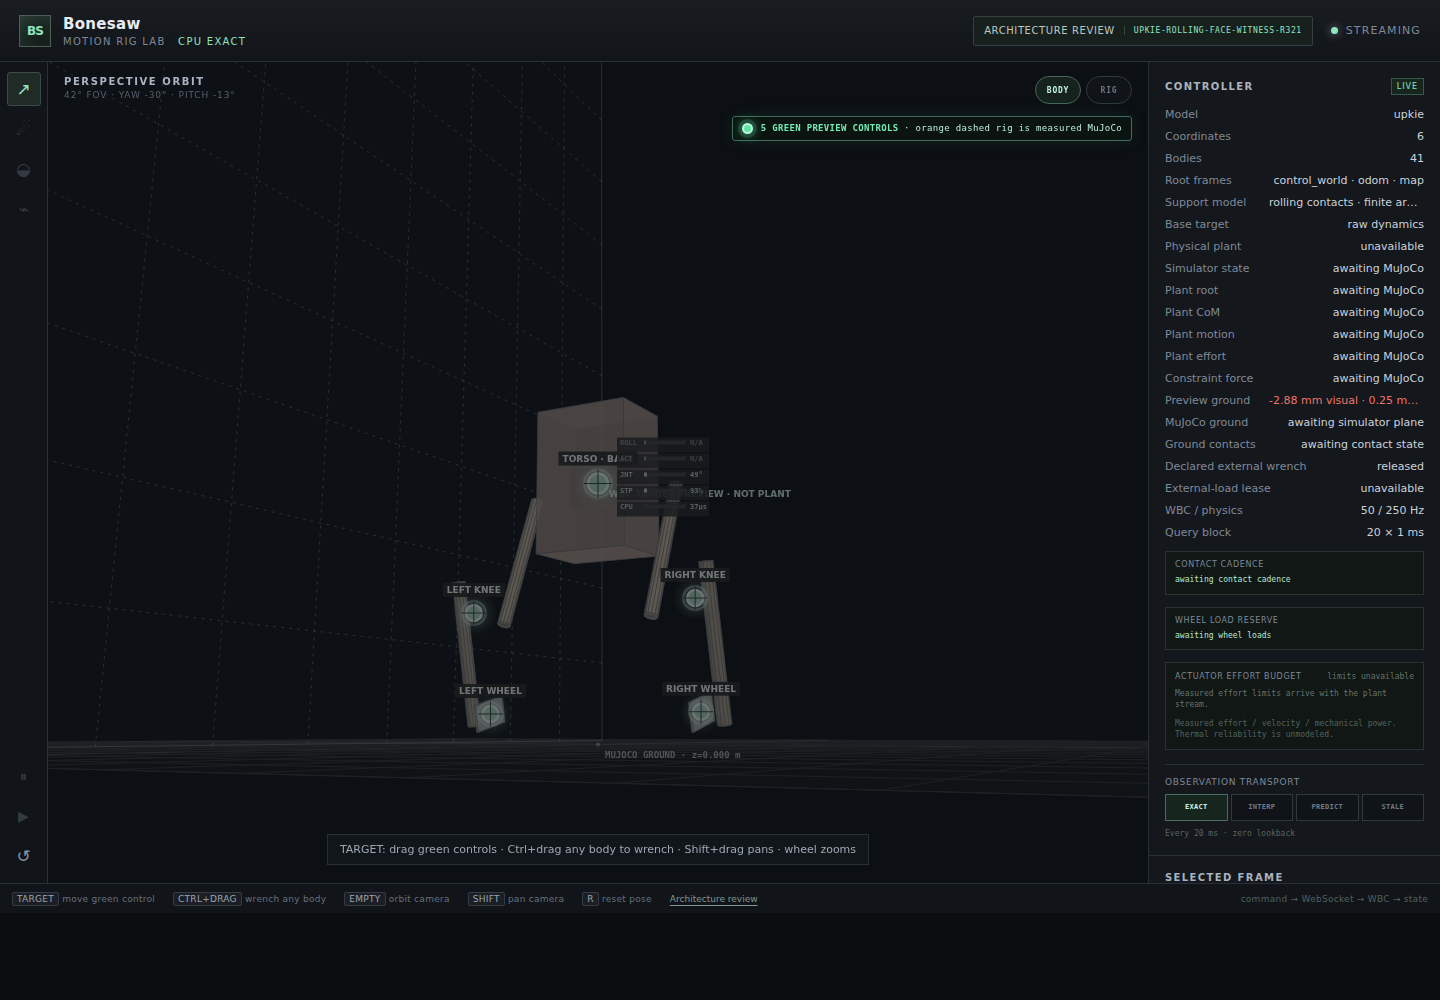
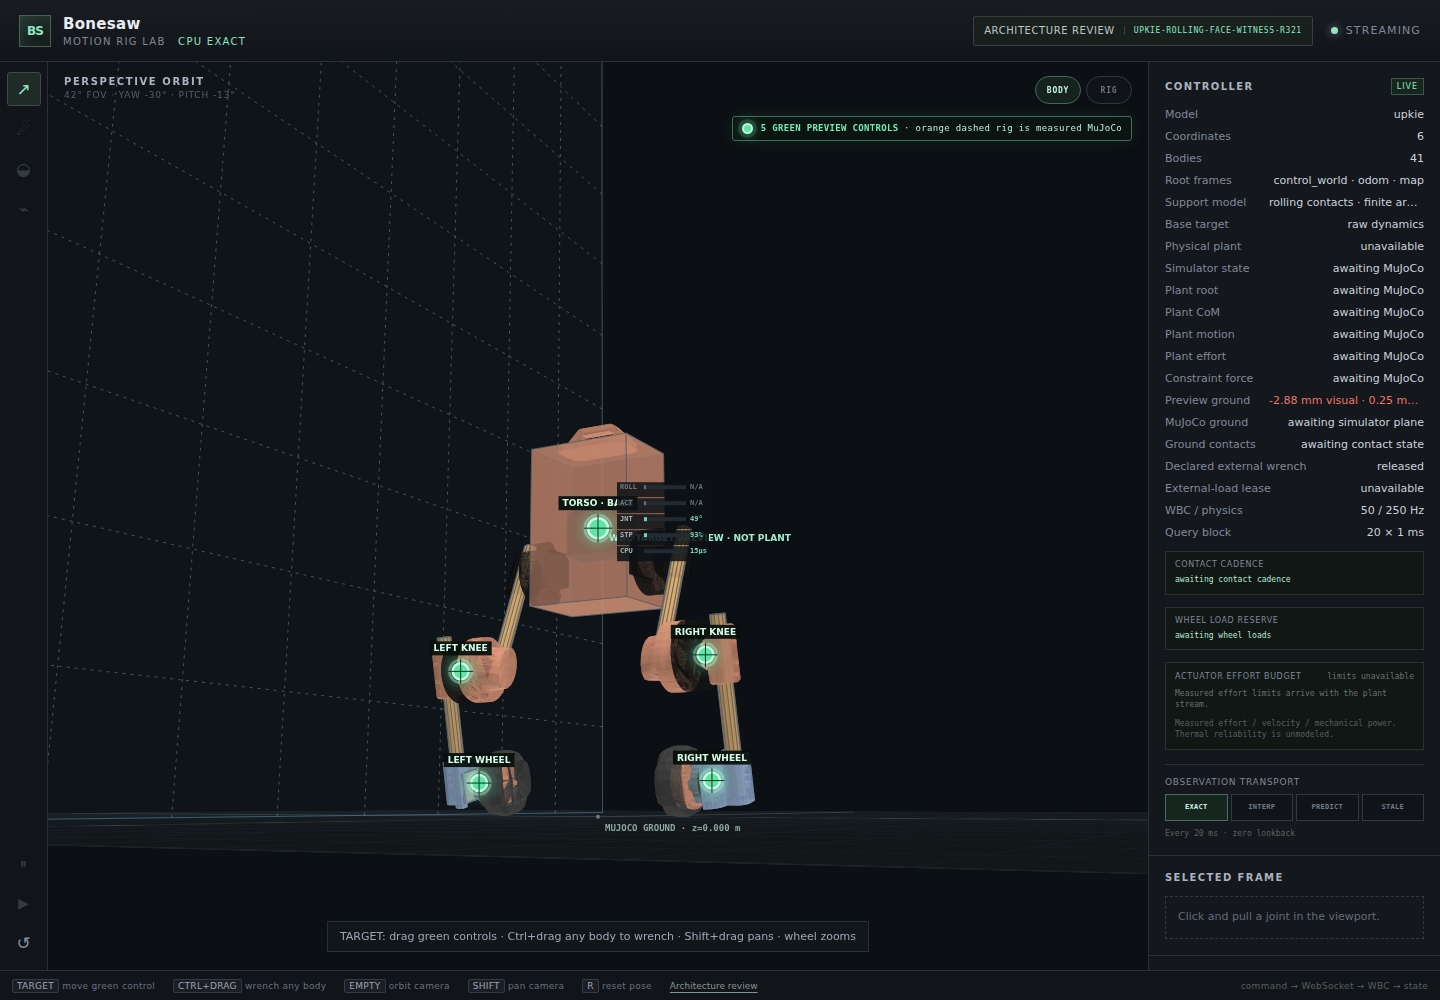
docs: refresh settled Upkie screenshot

diff --git a/README.md b/README.md
@@ -9,9 +9,10 @@ result through a small interactive browser client.
 
 ![Bonesaw Motion Rig Lab](docs/assets/bonesaw-live.png)
 
-The screenshot above is the local Upkie editor: the browser is connected to the
-Rust server, the model is rendered from the streamed canonical geometry, and
-the controller/authority panel is visible beside the viewport.
+The screenshot above is the local Upkie editor after all ten pinned STL assets
+have loaded: the browser is connected to the Rust server, the model is rendered
+from the streamed canonical geometry, and the controller/authority panel is
+visible beside the viewport.
 
 > Bonesaw is an engineering prototype, not a safety-rated robot controller.
 > The browser preview and research evaluations do not establish hardware,
